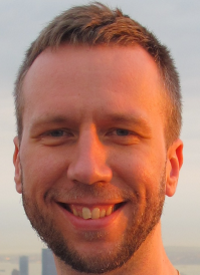
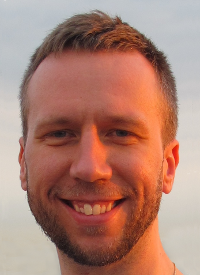
update text and duncans image

diff --git a/config/routes.rb b/config/routes.rb
@@ -7,4 +7,5 @@ NorwichCounselingGroup::Application.routes.draw do
   match '/counselor_darran', to: 'static_pages#counselor_darran', via: 'get'
   match '/counselor_kaz', to: 'static_pages#counselor_kaz', via: 'get'
   match '/counselor_camilla', to: 'static_pages#counselor_camilla', via: 'get'
+  match '/contact', to: 'static_pages#contact', via: 'get'
 end
